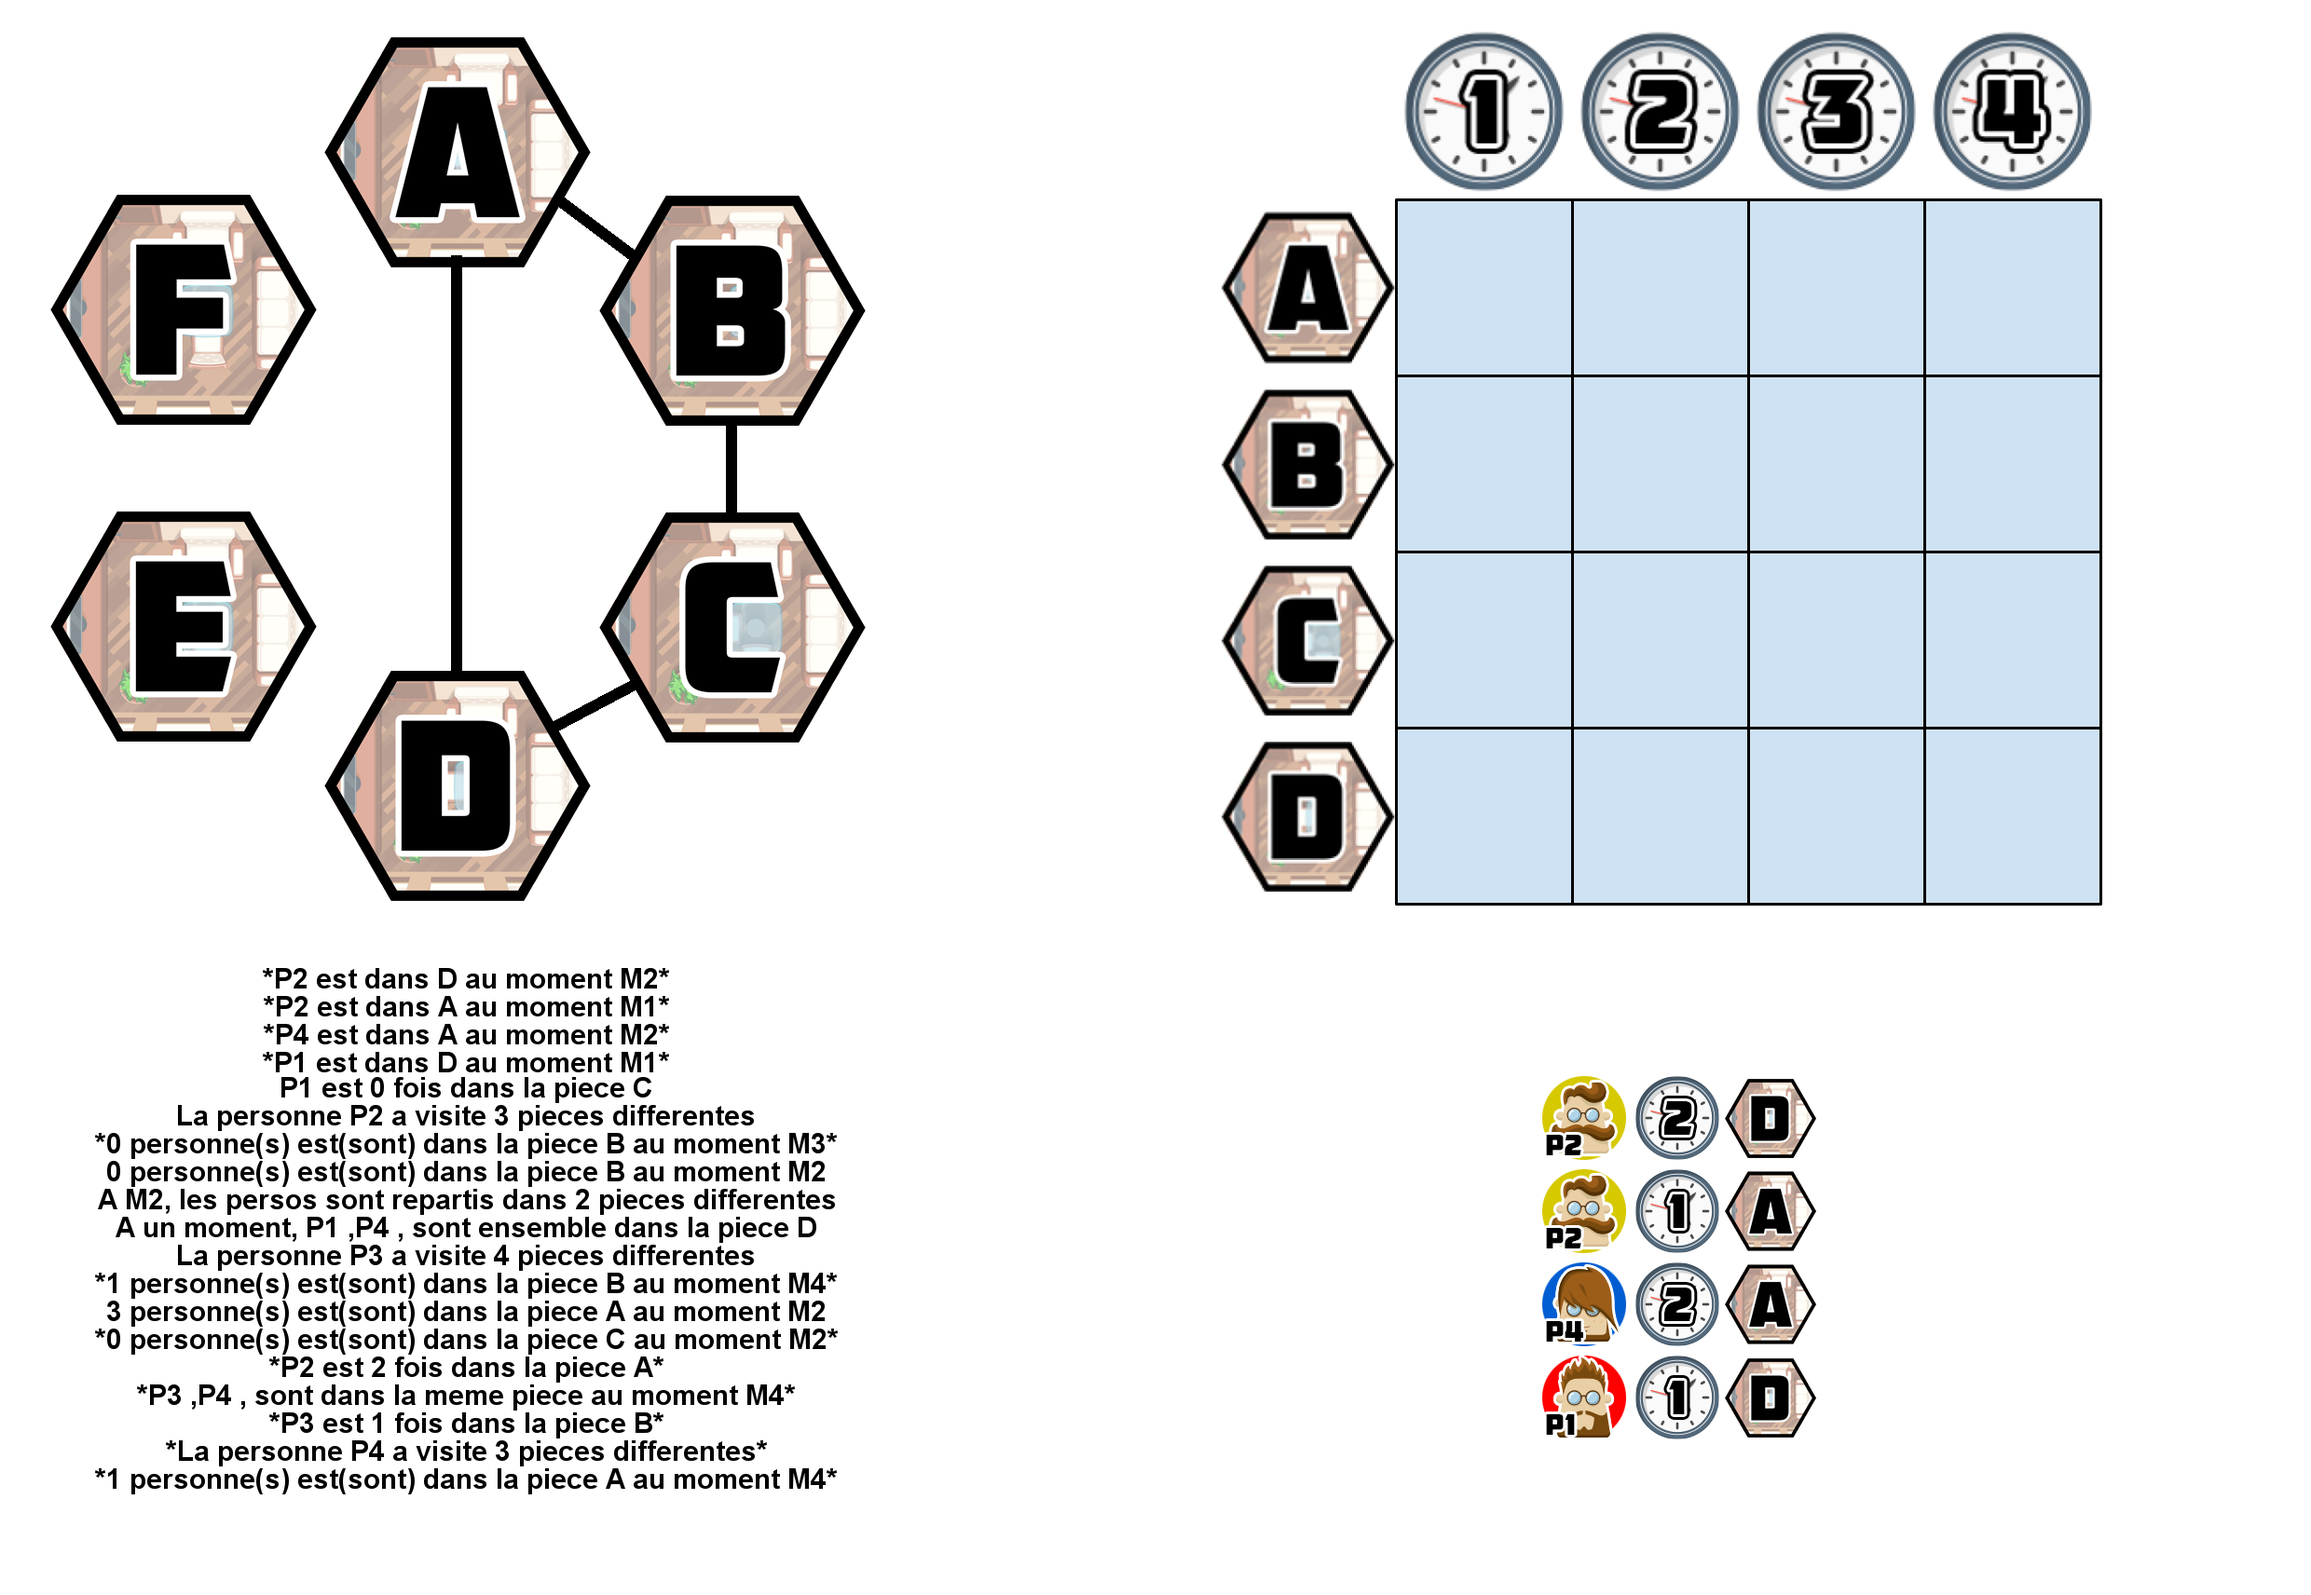
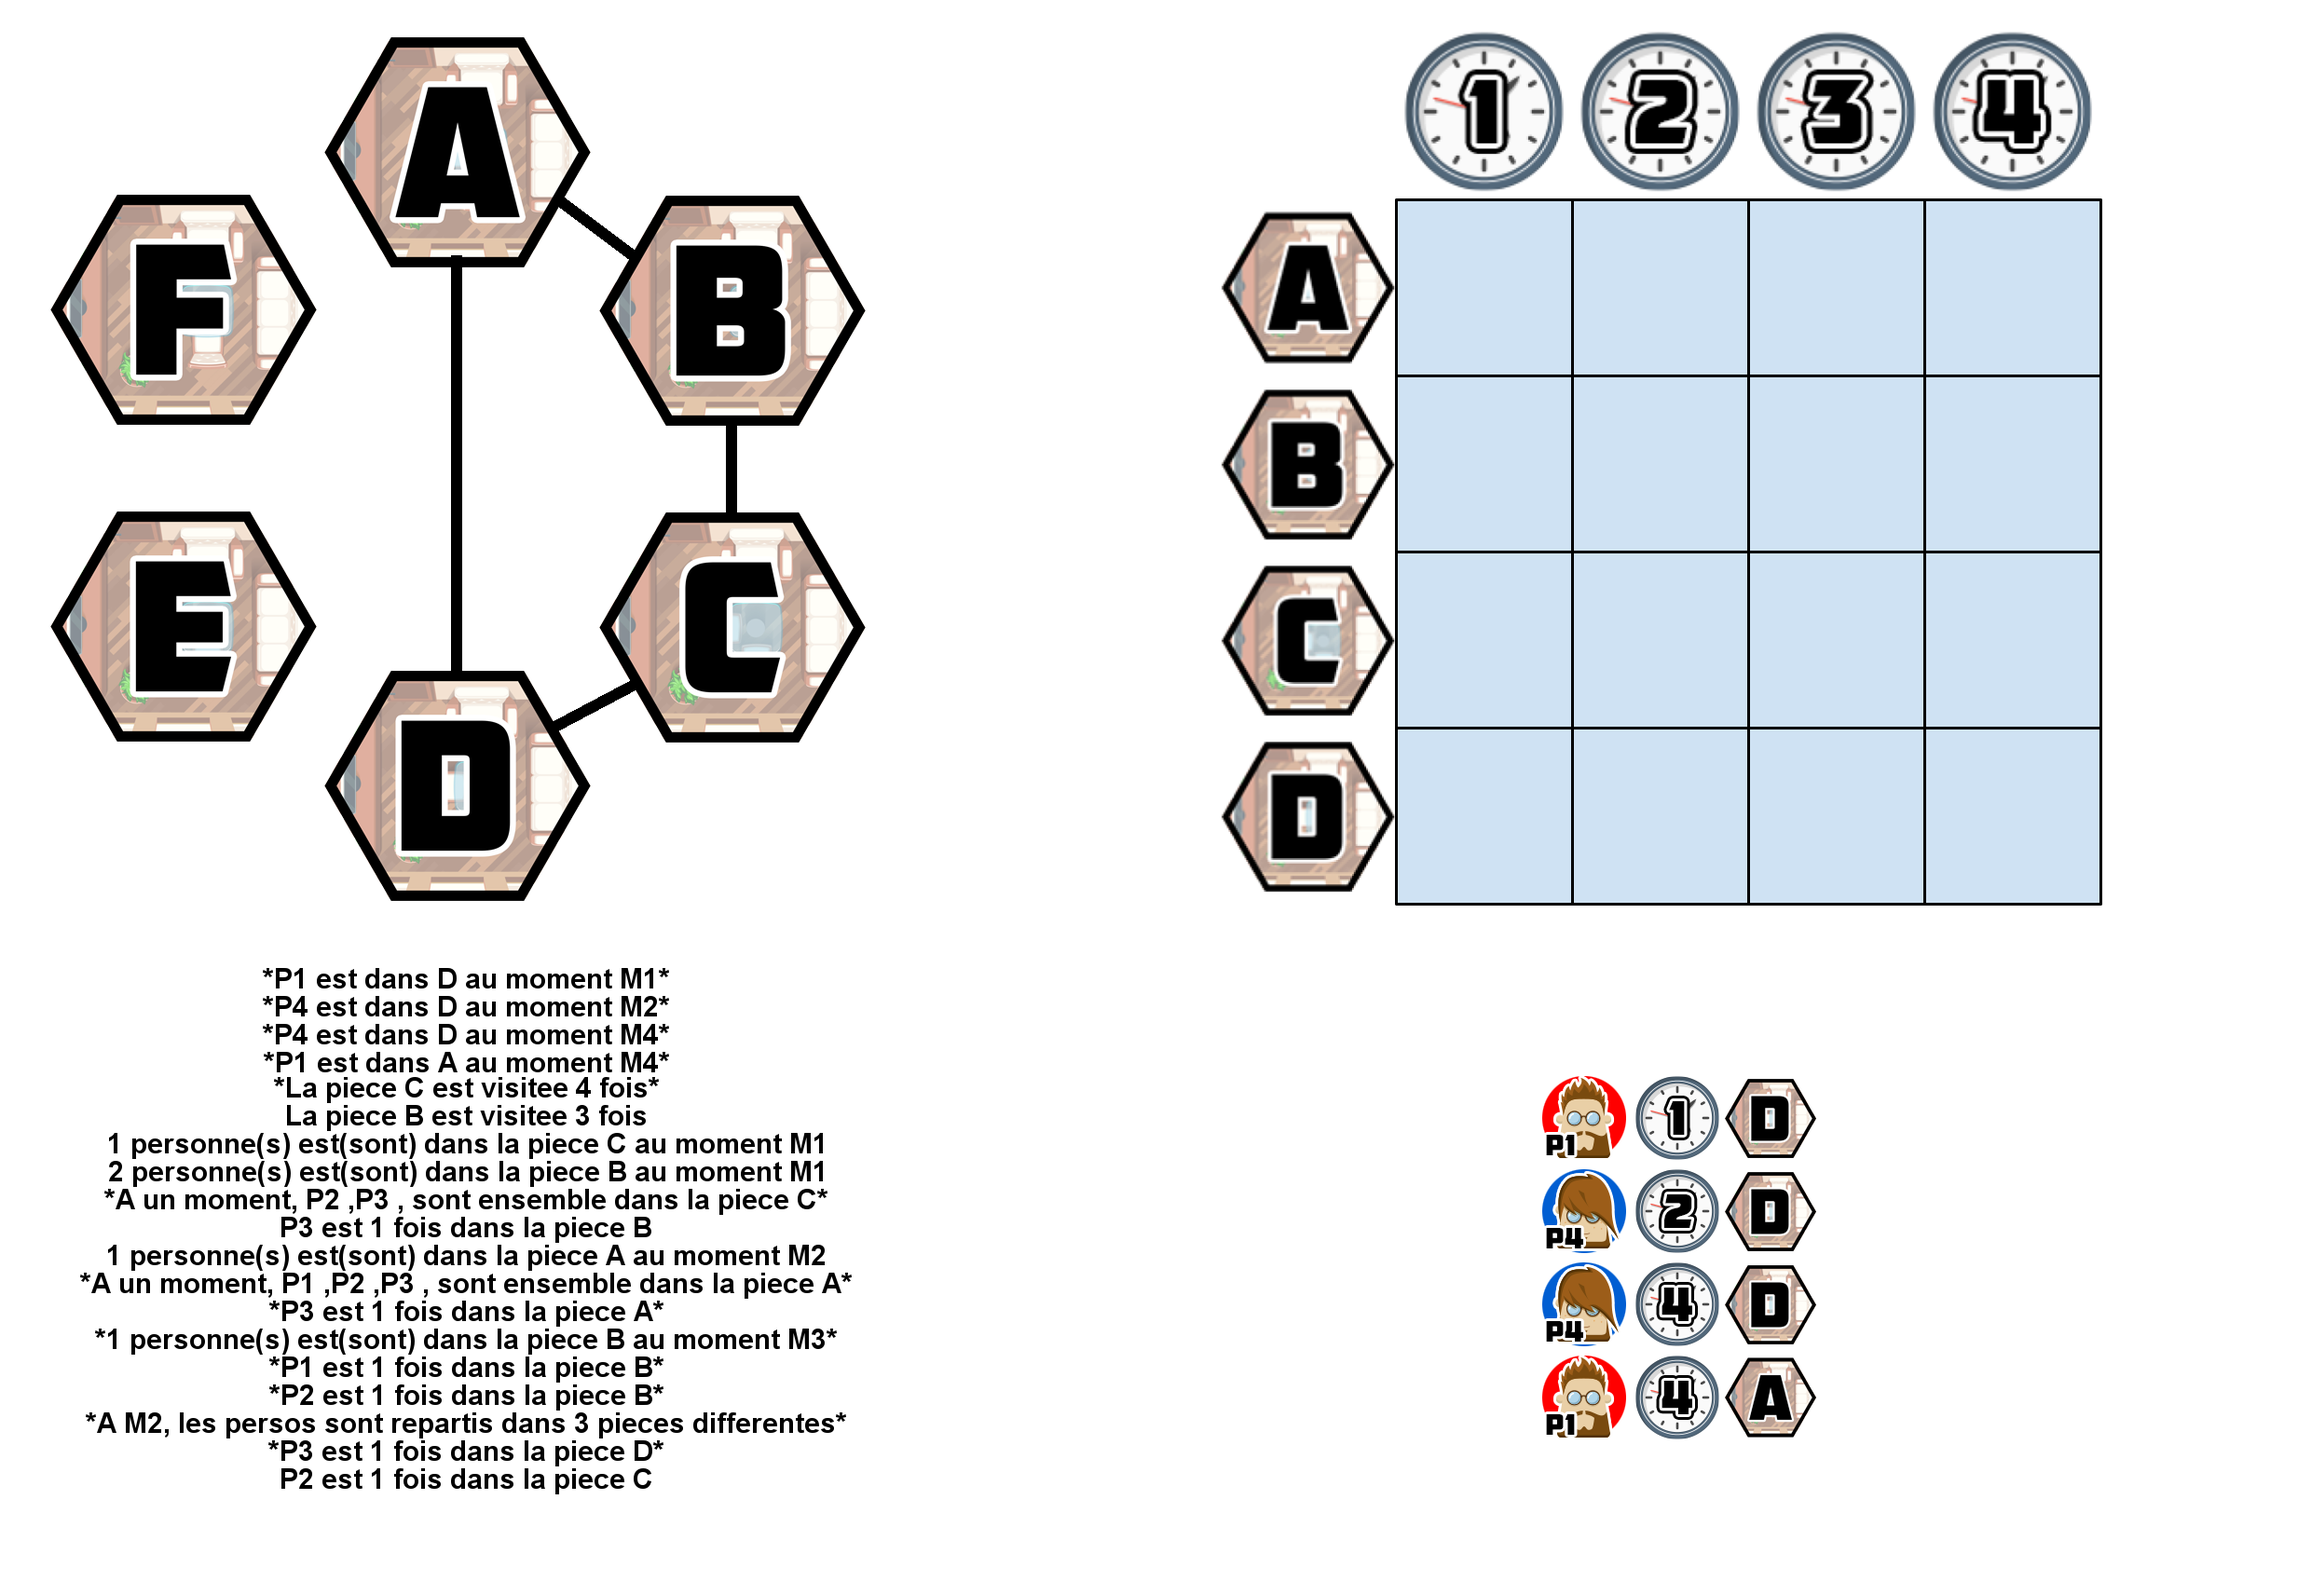
Petit bug

Changed region(s): [[0.031, 0.6192, 0.3726, 0.9597], [0.652, 0.6811, 0.7762, 0.8978]]

diff --git a/src/Indice_x_Ldiff_P.java b/src/Indice_x_Ldiff_P.java
@@ -30,7 +30,7 @@ public final class Indice_x_Ldiff_P extends Indice{
             for (Reservation reservation : solution.solution){
             	//if(reservation.personne != personne)
             	//	continue;
-                if ((reservation.personne != personne)&&(! list_piece_tmp.contains(reservation.lieu.piece)  )) list_piece_tmp.add(reservation.lieu.piece);
+                if ((reservation.personne == personne)&&(! list_piece_tmp.contains(reservation.lieu.piece)  )) list_piece_tmp.add(reservation.lieu.piece);
             }
             list_a_retourner.add(new Indice_x_Ldiff_P(list_piece_tmp.size(),personne,"La personne "+personne+" a visite "+list_piece_tmp.size()+" pieces differentes",false));
             //ici on peut faire la négation
